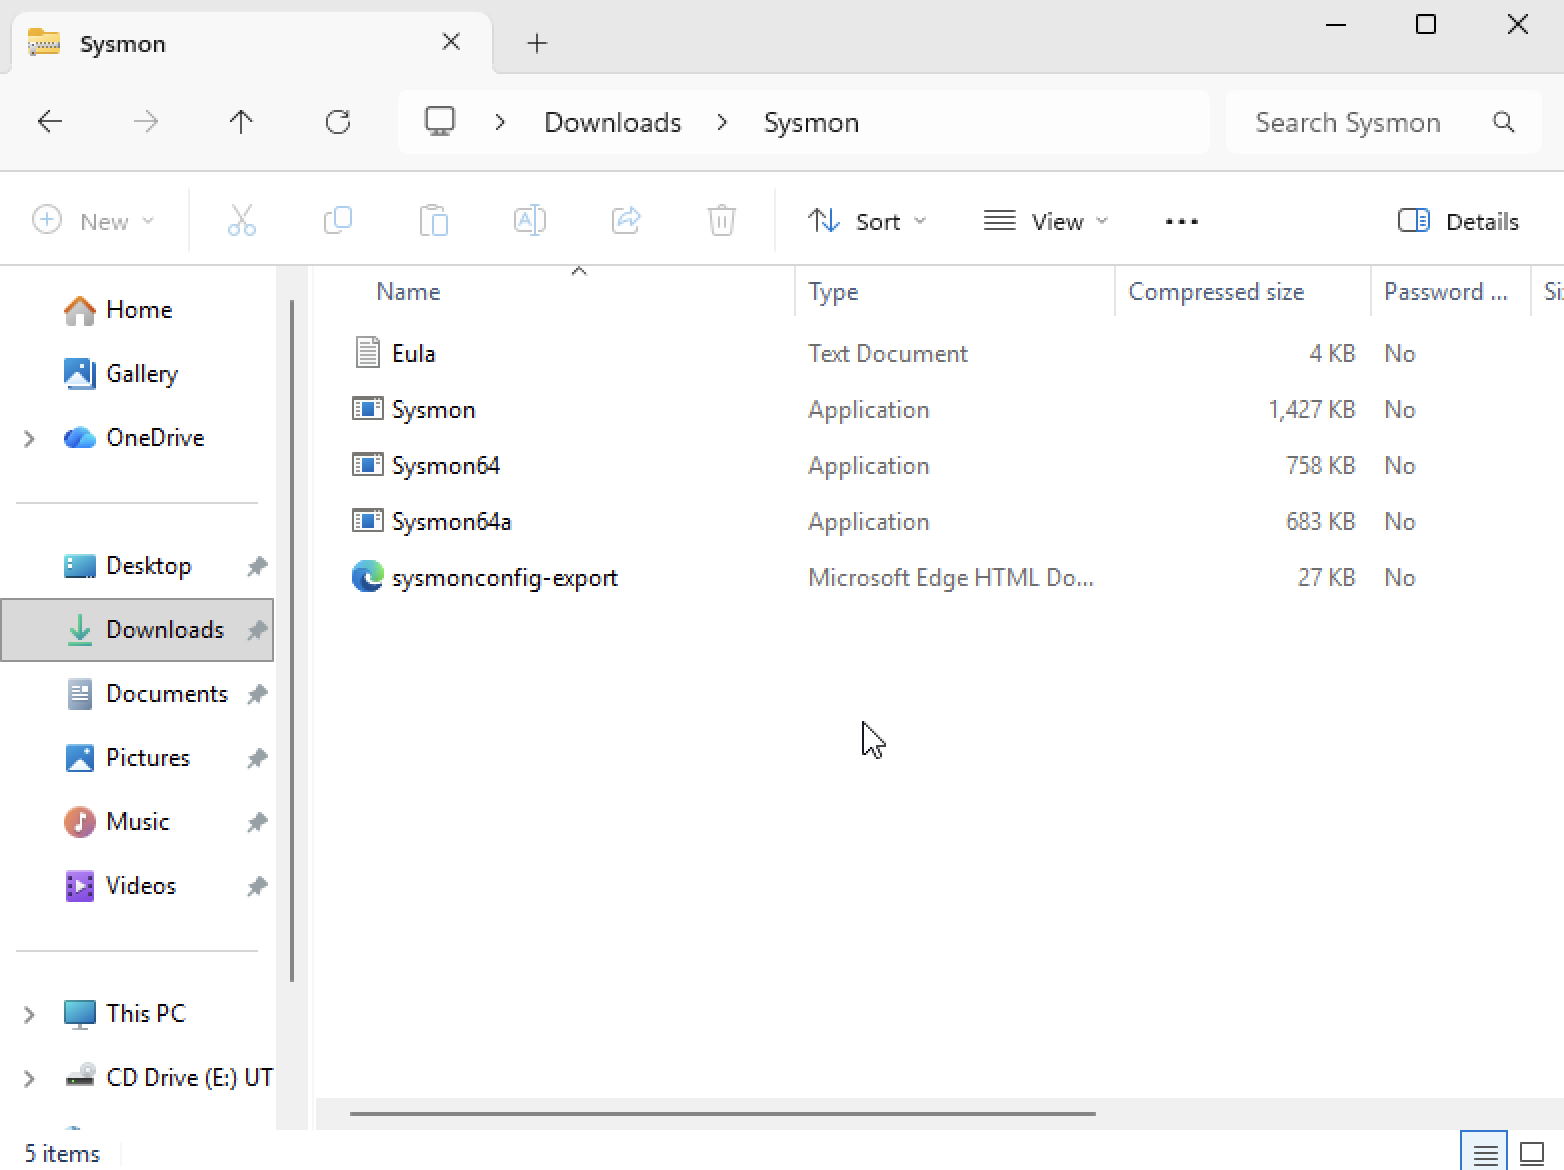
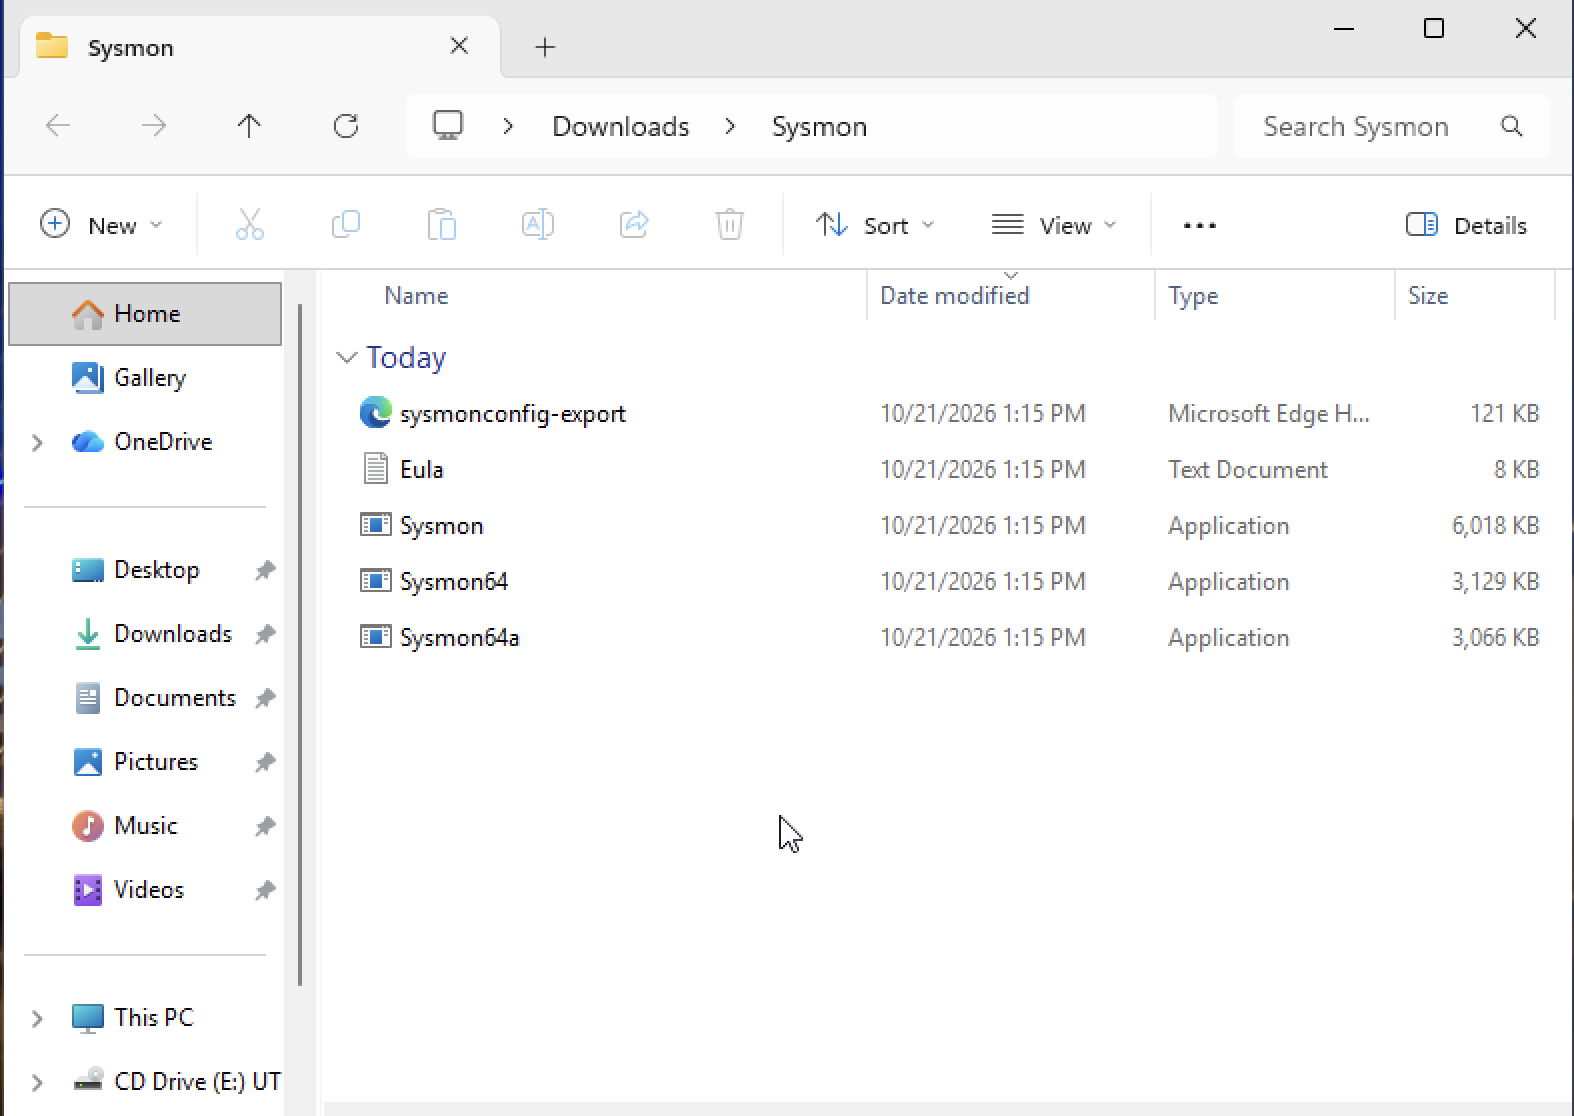
Update README

diff --git a/docs/sysmon-installation.md b/docs/sysmon-installation.md
@@ -1,15 +1,36 @@
-# Sysmon Installation
+# Sysmon Installation and Configuration
 
 This document describes the process of installing and configuring Sysmon to collect detailed system activity logs for security monitoring and investigation. 
+
+## 1. Sysmon Download
 
 The official Sysmon package was downloaded from the
 [Microsoft Sysinternals website](https://learn.microsoft.com/en-us/sysinternals/downloads/sysmon).
 
 ![Sysmon webpage](/screenshots/sysmon-config/01-sysmon-webpage.png)
 
-After downloading and extracting the the Sysmon package, a configuration file was obtained to define which events Sysmon should monitor and log. The configuration template was downloaded from [SwiftOnSecurity's GitHub repository](https://github.com/SwiftOnSecurity/sysmon-config/blob/master/sysmonconfig-export.xml).
 
+## 2. Sysmon Configuration File Download
+After downloading and extracting the the Sysmon package, a configuration file was obtained to define which events Sysmon should monitor and log. The configuration template was downloaded from [SwiftOnSecurity's GitHub repository](https://github.com/SwiftOnSecurity/sysmon-config/blob/master/sysmonconfig-export.xml).
 
 ![SwiftOnSecurity GitHub](/screenshots/sysmon-config/02-sysmonconfig-github.png)
 
-Following this, the file was moved to the extracted directory of the Sysmon download.
+## 3. Sysmon Installation via Windows Powershell
+
+Following this, the configuration file was moved to the extracted Sysmon directory in preparation for applying the configuration through **Windows PowerShell**.
+
+![Configuration file directory](/screenshots/sysmon-config/03-sysmonconfig-move.png)
+
+Windows PowerShell was opened as an administrator, and the directory containing the Sysmon executable was accessed. The following command was executed to install Sysmon and apply the downloaded configuration file. The license agreement was also accepted during the installation process.
+
+```
+.\sysmon64а.exe-i sysmonconfig-export.xml
+```
+![Sysmon installation command](/screenshots/sysmon-config/04-sysmon-installation-command.png)
+***Note:** `Sysmon64a.exe` was selected because the Windows 11 virtual machine runs on an ARM64 architecture, consistent with the Apple Silicon host (MacBook Pro M1). Using the version that matches the guest operating system's architecture helps ensure compatibility.*
+
+## 4. Verify Installation
+
+The Windows **Services** console was then opened, and the `Sysmon64a` service was located to verify that it was running, indicating that Sysmon had been installed successfully.
+
+![Services window](/screenshots/sysmon-config/05-verify-sysmon.png)

diff --git a/README.md b/README.md
@@ -104,10 +104,10 @@ NET START Wazuh
 
 ## Sysmon Installation (Optional)
 
-As an optional enhancement, **Sysmon** (System Monitor) was installed on the Windows 11 endpoint to capture additional system activity and enhance security monitoring.
+As an optional enhancement, **Sysmon (System Monitor)** was installed on the Windows 11 endpoint to capture additional system activity and enhance security monitoring.
 
 For detailed installation and configuration instructions, see
-[Sysmon Installation](docs/sysmon-installation.md).
+[Sysmon Installation and Configuration](docs/sysmon-installation.md).
 
 ---
 
